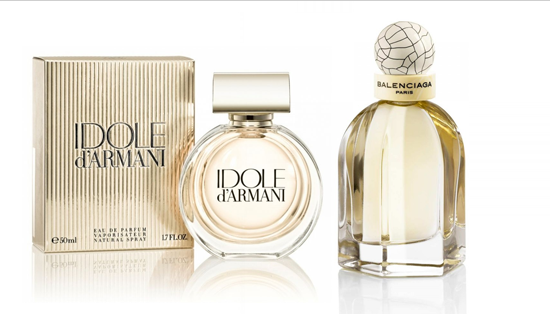
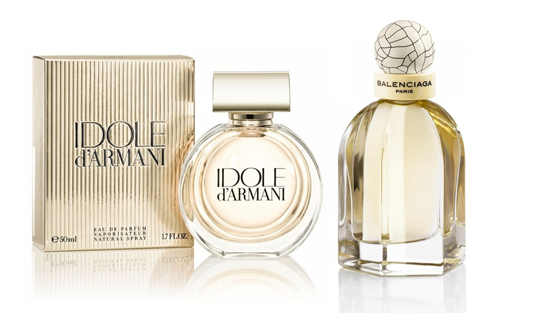
replaced two of the carousal images as the border top was accidentally clipped in before. adding initial styles to carousal including position on img, linear gradient, carousal h2

diff --git a/css/style.css b/css/style.css
@@ -3,6 +3,7 @@
 html, 
 body {
 	height:100%;
+	background: transparent;
 }
 
 /* fonts */
@@ -167,7 +168,9 @@ nav {
 #thumbnail:after,
 #thumbnail ul:after,
 #more-products:after,
-#more-products ul:after {
+#more-products ul:after,
+#carousal,
+#carousal ul {
 	display: table;
 	clear: both;
 	content:"";
@@ -258,7 +261,29 @@ input[type=submit] {
     padding-right: 40px;
     margin: 0 auto 40px;
 }
+/* carousal */
 
+#carousal {
+	width: 100%;
+	background: -moz-linear-gradient(top,  rgba(255,255,255,0) 0%, rgba(243,243,243,1) 100%); /* FF3.6+ */
+	background: -webkit-gradient(linear, left top, left bottom, color-stop(0%,rgba(255,255,255,1)), color-stop(100%,rgba(243,243,243,1))); /* Chrome,Safari4+ */
+	background: -webkit-linear-gradient(top,  rgba(255,255,255,0) 0%,rgba(243,243,243,1) 100%); /* Chrome10+,Safari5.1+ */
+	background: -o-linear-gradient(top,  rgba(255,255,255,0) 0%,rgba(243,243,243,1) 100%); /* Opera 11.10+ */
+	background: -ms-linear-gradient(top,  rgba(255,255,255,0) 0%,rgba(243,243,243,1) 100%); /* IE10+ */
+	background: linear-gradient(to bottom,  rgba(255,255,255,0) 0%,rgba(243,243,243,1) 100%); /* W3C */
+}
+
+#carousal img {
+	position: relative;
+	float: left;
+	z-index: -1;
+}
+
+#carousal h2 {
+	text-transform: uppercase;
+	font-size: 137.5%;
+	color:#989898;
+}
 /* product list */
 #product-list {
 	margin-bottom: 150px;
@@ -442,6 +467,7 @@ input[type=submit] {
 	height:204px;
 	overflow:hidden;
 }
+
 #zoom img {
 	position:relative;
 	top:0;

diff --git a/index.html b/index.html
@@ -26,25 +26,25 @@
 	</nav>
 	<div id="carousal">
 		<ul class="container">
-			<li>
-				<img src="img/slides/slide-01.png" alt="Select Perfumes &amp; Colognes" title="Select Perfumes &amp; Colognes" />
-				<h2>select perfumes &amp; colognes</h2>
-				<p>Find great deals on designer scents like Belenciaga or d’Armani and more!</p>
+			<li id="slides">
+				<img src="img/slides/slide-03.png" alt="Select Perfumes &amp; Colognes" title="Select Perfumes &amp; Colognes" />
 				<span>30% off</span>
+				<h2>select perfumes &amp; colognes</h2>
+				<p>Find great deals on designer scents like Belenciaga or d&rsquo;Armani and more!</p>
 			</li>
-			<li>
+			<!-- <li id="slides">
 				<img src="img/slides/slide-02.png" alt="Luxurious Bamboo Towels" title="Luxurious Bamboo Towels" />
+				<span>FREE towels!</span>
 				<h2>luxurious bamboo towels</h2>
 				<p>Buy any two towels and get another towel of equal or lesser value for free!</p>
 				<p>Or get 10% off when you purchase 2 or more complete towel sets!</p>
-				<span>FREE towels!</span>
 			</li>
 			<li>
+				<span>25% off</span>
 				<img src="img/slides/slide-03.png" alt="Select Perfumes &amp; Colognes" title="Select Perfumes &amp; Colognes" />
 				<h2>wine glasses &amp; accessories</h2>
 				<p>Find great deals on designer scents like Belenciaga or d’Armani and more!</p>
-				<span>25% off</span>
-			</li>
+			</li> -->
 		</ul>
 		<ul id="pagination">
 			<li><a href="MESSINA_TEST">Featured Sale 1</a></li>
